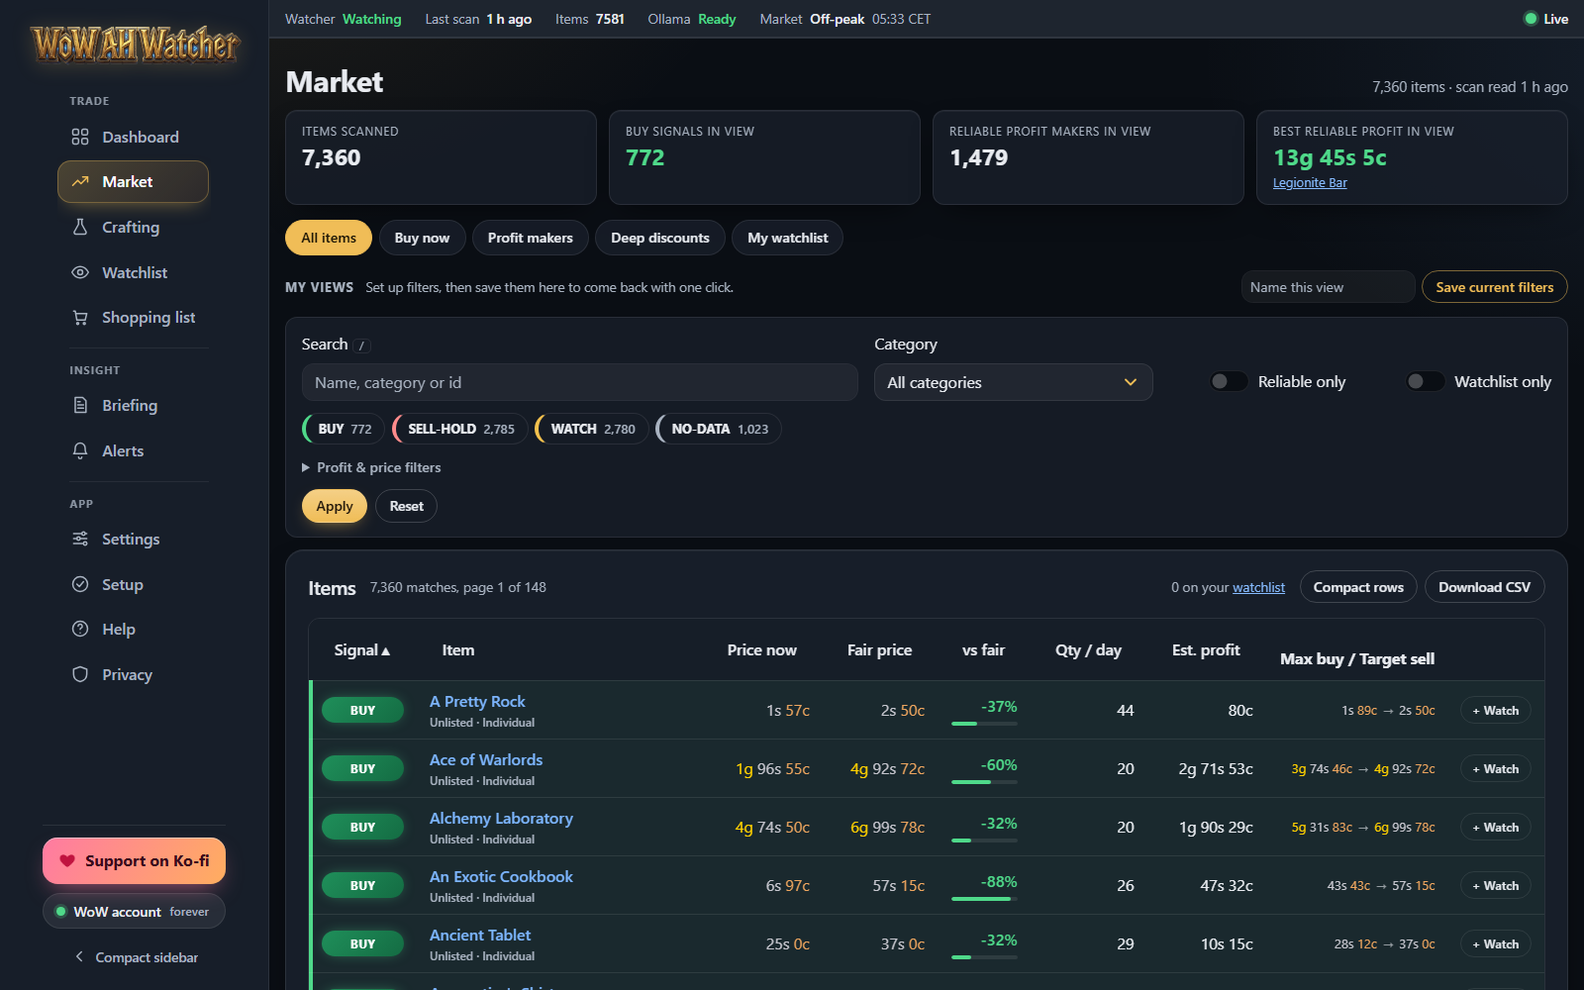
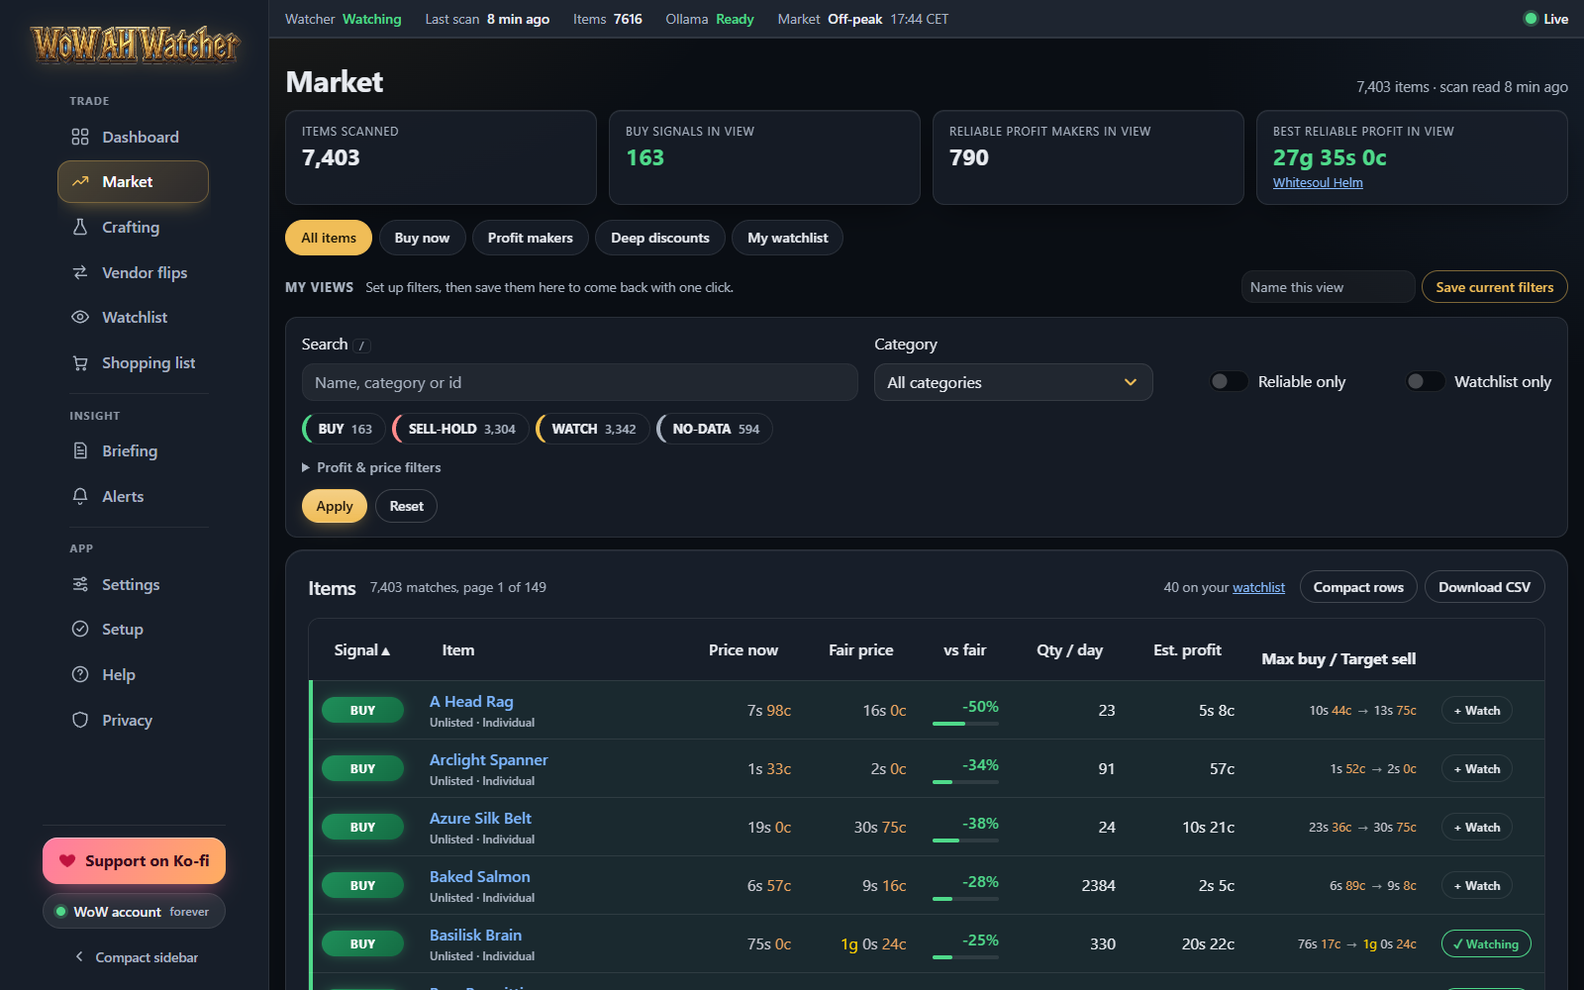
Update site and README for 1.1.0: Vendor flips, vendor-aware crafting, new screenshots

diff --git a/index.html b/index.html
@@ -42,10 +42,10 @@
       "@id": "https://wowahwatcher.com/#app",
       "name": "WoW AH Watcher",
       "alternateName": "WoWAHWatcher",
-      "description": "A free, local Windows app that reads your Auctionator scans and shows BUY, SELL-HOLD and WATCH signals, true crafting profit, a shopping list and deal alerts for the World of Warcraft Auction House.",
+      "description": "A free, local Windows app that reads your Auctionator scans and shows BUY, SELL-HOLD and WATCH signals, true crafting profit, vendor flips, a shopping list and deal alerts for the World of Warcraft Auction House.",
       "applicationCategory": "UtilitiesApplication",
       "operatingSystem": "Windows 10, Windows 11",
-      "softwareVersion": "1.0.2",
+      "softwareVersion": "1.1.0",
       "url": "https://wowahwatcher.com/",
       "downloadUrl": "https://github.com/nanidev/wowahwatcher/releases/latest",
       "image": "https://wowahwatcher.com/assets/site/og-image.jpg",
@@ -53,13 +53,15 @@
         "https://wowahwatcher.com/assets/screens/dashboard.png",
         "https://wowahwatcher.com/assets/screens/market.png",
         "https://wowahwatcher.com/assets/screens/crafting.png",
+        "https://wowahwatcher.com/assets/screens/vendorflips.png",
         "https://wowahwatcher.com/assets/screens/shopping.png"
       ],
       "offers": { "@type": "Offer", "price": "0", "priceCurrency": "USD", "description": "Free for personal, non-commercial use" },
       "author": { "@type": "Person", "name": "nanidev", "url": "https://github.com/nanidev" },
       "featureList": [
         "BUY, SELL-HOLD and WATCH signals from your own Auctionator history",
-        "Crafting profit after the 5% Auction House cut",
+        "Crafting profit after the 5% Auction House cut, using vendor prices only where stock is unlimited",
+        "Vendor flips: items worth more at a vendor than where they are sold, both directions",
         "Combined shopping list with buy-versus-craft comparison",
         "Live deal alerts with optional Discord webhook",
         "Optional local AI briefing through Ollama",
@@ -81,7 +83,8 @@
         { "@type": "Question", "name": "Does it send my data anywhere?", "acceptedAnswer": { "@type": "Answer", "text": "No. Everything is calculated locally on your PC. There are no accounts, no telemetry and no third-party scripts. The app only talks to your own local Ollama, to a Discord webhook if you add one, and to GitHub to ask for the newest release number (you can turn that off in Settings). Nothing about you or your data is sent." } },
         { "@type": "Question", "name": "Does it modify or automate World of Warcraft?", "acceptedAnswer": { "@type": "Answer", "text": "No. It never touches the game. It only reads the files that your addons already save to disk after you log out or type /reload, and it never buys, sells or clicks anything for you." } },
         { "@type": "Question", "name": "Do I need Ollama or an AI model?", "acceptedAnswer": { "@type": "Answer", "text": "No. Ollama is optional. Without it you still get a clear written briefing built from fixed rules. With Ollama installed, a local AI can rewrite the briefing as a flowing summary on your own machine." } },
-        { "@type": "Question", "name": "How is crafting profit calculated?", "acceptedAnswer": { "@type": "Answer", "text": "Each material is priced at the cheaper of its Auction House price and its vendor price, the 5% Auction House cut is taken off the sale price, and you see the net profit and margin. If a price is missing, the craft shows price unknown instead of inventing a total." } },
+        { "@type": "Question", "name": "How is crafting profit calculated?", "acceptedAnswer": { "@type": "Answer", "text": "Each material is priced at the cheaper of its Auction House price and its vendor price, but a vendor price only counts when the vendor has unlimited stock. Reputation discounts are already in the price Auctionator saved. The 5% Auction House cut is taken off the sale price, and you see the net profit and margin. Materials you can only get from a vendor are labelled, and crafts your characters cannot make are flagged. If a price is missing, the craft shows price unknown instead of inventing a total." } },
+        { "@type": "Question", "name": "What are vendor flips?", "acceptedAnswer": { "@type": "Answer", "text": "Vendor flips lists items that are worth more somewhere else than where they are sold: ones you can buy on the Auction House for less than a vendor pays, and ones a vendor sells for less than they fetch on the Auction House after the 5% cut. Every price comes from your own Auctionator scan or your own game. Auctionator does not save how many items are listed or whether a vendor has limited stock, so the page says when stock is not confirmed and leaves out old prices." } },
         { "@type": "Question", "name": "Which World of Warcraft versions work?", "acceptedAnswer": { "@type": "Answer", "text": "The app looks for the retail, classic and forever game folders. If your install is somewhere unusual, you can choose the WoW folder yourself in Settings." } },
         { "@type": "Question", "name": "Does it run on Mac or Linux?", "acceptedAnswer": { "@type": "Answer", "text": "Not at the moment. WoW AH Watcher is a Windows 10 and Windows 11 (64-bit) app." } },
         { "@type": "Question", "name": "Windows says \"Windows protected your PC\". Is that normal?", "acceptedAnswer": { "@type": "Answer", "text": "Yes. The first builds are not code-signed yet, so Windows SmartScreen may warn you. Click More info, then Run anyway. Every download ships with a .sha256 file so you can verify it is untouched." } },
@@ -120,7 +123,7 @@
     <div class="wrap">
       <div class="reveal in"><span class="pill"><b>FREE</b> Windows app for World of Warcraft</span></div>
       <h1 id="hero-title" class="reveal in" style="--d:.08s">Know what to buy, craft and sell. <span class="grad">Before the Auction House does.</span></h1>
-      <p class="lead reveal in" style="--d:.16s">WoW AH Watcher turns the prices Auctionator already records into plain-language decisions: real bargains, true crafting profit and a shopping list that does the maths. Quietly, on your own PC.</p>
+      <p class="lead reveal in" style="--d:.16s">WoW AH Watcher turns the prices Auctionator already records into plain-language decisions: real bargains, true crafting profit, vendor flips and a shopping list that does the maths. Quietly, on your own PC.</p>
       <div class="cta-row reveal in" style="--d:.24s">
         <a class="btn btn-gold btn-lg" href="https://github.com/nanidev/wowahwatcher/releases/latest">
           <svg viewBox="0 0 24 24" fill="none" stroke="currentColor" stroke-width="2.4" stroke-linecap="round" stroke-linejoin="round" aria-hidden="true"><path d="M12 4v11m0 0l-4.5-4.5M12 15l4.5-4.5M5 20h14"/></svg>
@@ -176,7 +179,7 @@
     <div class="wrap">
       <div class="center reveal">
         <span class="eyebrow">Product tour</span>
-        <h2 class="h2" id="show-title">Seven pages. One clear answer.</h2>
+        <h2 class="h2" id="show-title">Eight pages. One clear answer.</h2>
         <p class="lead">Real screenshots from the real app. Pick a page and take a look.</p>
       </div>
       <div class="show reveal" id="tour">
@@ -184,10 +187,11 @@
           <button class="tab" role="tab" id="t0" aria-controls="viewer" aria-selected="true"><strong>Dashboard</strong><p>Your best BUY signals, your most profitable craft and a written briefing, all on one calm page.</p></button>
           <button class="tab" role="tab" id="t1" aria-controls="viewer" aria-selected="false" tabindex="-1"><strong>Market</strong><p>Search and filter every scanned item, jump to presets like Buy now or Deep discounts, and save your own views.</p></button>
           <button class="tab" role="tab" id="t2" aria-controls="viewer" aria-selected="false" tabindex="-1"><strong>Crafting</strong><p>Every ingredient, the real cost and the profit after the Auction House cut, for the recipes your characters know.</p></button>
-          <button class="tab" role="tab" id="t3" aria-controls="viewer" aria-selected="false" tabindex="-1"><strong>Shopping list</strong><p>One combined list of everything to buy, and where crafting a part beats buying it.</p></button>
-          <button class="tab" role="tab" id="t4" aria-controls="viewer" aria-selected="false" tabindex="-1"><strong>Alerts</strong><p>Each new deal announced once, with the price to stay under. Optional Discord webhook for your phone.</p></button>
-          <button class="tab" role="tab" id="t5" aria-controls="viewer" aria-selected="false" tabindex="-1"><strong>Item page</strong><p>The price history chart, the fair price and the plain-language reason behind every signal.</p></button>
-          <button class="tab" role="tab" id="t6" aria-controls="viewer" aria-selected="false" tabindex="-1"><strong>Briefing</strong><p>A short readable summary of the latest scan, with your own notes to steer the optional local AI.</p></button>
+          <button class="tab" role="tab" id="t3" aria-controls="viewer" aria-selected="false" tabindex="-1"><strong>Vendor flips</strong><p>Items worth more at a vendor than where they are sold, both ways, with stock and price age flagged.</p></button>
+          <button class="tab" role="tab" id="t4" aria-controls="viewer" aria-selected="false" tabindex="-1"><strong>Shopping list</strong><p>One combined list of everything to buy, and where crafting a part beats buying it.</p></button>
+          <button class="tab" role="tab" id="t5" aria-controls="viewer" aria-selected="false" tabindex="-1"><strong>Alerts</strong><p>Each new deal announced once, with the price to stay under. Optional Discord webhook for your phone.</p></button>
+          <button class="tab" role="tab" id="t6" aria-controls="viewer" aria-selected="false" tabindex="-1"><strong>Item page</strong><p>The price history chart, the fair price and the plain-language reason behind every signal.</p></button>
+          <button class="tab" role="tab" id="t7" aria-controls="viewer" aria-selected="false" tabindex="-1"><strong>Briefing</strong><p>A short readable summary of the latest scan, with your own notes to steer the optional local AI.</p></button>
         </div>
         <div class="viewer" id="viewer" role="tabpanel" aria-live="polite">
           <div class="device">
@@ -196,6 +200,7 @@
               <img class="on" src="assets/site/dashboard-1600.webp" srcset="assets/site/dashboard-800.webp 800w, assets/site/dashboard-1600.webp 1600w" sizes="(max-width: 1000px) 100vw, 760px" width="1600" height="1000" alt="Dashboard page with BUY signals, best craft and briefing" loading="lazy">
               <img src="assets/site/market-1600.webp" srcset="assets/site/market-800.webp 800w, assets/site/market-1600.webp 1600w" sizes="(max-width: 1000px) 100vw, 760px" width="1600" height="1000" alt="Market page with presets, filters, saved views and signal chips" loading="lazy">
               <img src="assets/site/crafting-1600.webp" srcset="assets/site/crafting-800.webp 800w, assets/site/crafting-1600.webp 1600w" sizes="(max-width: 1000px) 100vw, 760px" width="1600" height="1000" alt="Crafting page showing ingredients, craft cost, net profit and margin" loading="lazy">
+              <img src="assets/site/vendorflips-1600.webp" srcset="assets/site/vendorflips-800.webp 800w, assets/site/vendorflips-1600.webp 1600w" sizes="(max-width: 1000px) 100vw, 760px" width="1600" height="1000" alt="Vendor flips page listing items to buy at the Auction House and sell to a vendor, and the reverse" loading="lazy">
               <img src="assets/site/shopping-1600.webp" srcset="assets/site/shopping-800.webp 800w, assets/site/shopping-1600.webp 1600w" sizes="(max-width: 1000px) 100vw, 760px" width="1600" height="1000" alt="Shopping list with a combined materials list and a buy-versus-craft tree" loading="lazy">
               <img src="assets/site/alerts-1600.webp" srcset="assets/site/alerts-800.webp 800w, assets/site/alerts-1600.webp 1600w" sizes="(max-width: 1000px) 100vw, 760px" width="1600" height="1000" alt="Alerts feed listing new BUY deals with prices" loading="lazy">
               <img src="assets/site/item-1600.webp" srcset="assets/site/item-800.webp 800w, assets/site/item-1600.webp 1600w" sizes="(max-width: 1000px) 100vw, 760px" width="1600" height="1000" alt="Item page with price history chart and the reason for its signal" loading="lazy">
@@ -231,7 +236,7 @@
         <article class="card span2 reveal" style="--d:.1s">
           <span class="tag">Crafting</span>
           <h3>The true profit of every craft</h3>
-          <p>Cheaper of Auction House or vendor price for each material, minus the 5% cut.</p>
+          <p>Cheaper of Auction House or vendor price for each material, minus the 5% cut. Vendor prices only count when the vendor never runs out.</p>
           <div class="demo receipt" aria-label="Illustrative crafting profit example">
             <div class="row"><span>Cloth &times; 12</span><span><span class="g">8g</span> <span class="s">40s</span></span></div>
             <div class="row"><span>Thread &times; 2</span><span><span class="g">1g</span> <span class="s">20s</span></span></div>
@@ -294,6 +299,7 @@
           </div>
           <ul class="mini">
             <li><svg viewBox="0 0 24 24" fill="none" stroke="currentColor" stroke-width="2.4" stroke-linecap="round" stroke-linejoin="round" aria-hidden="true"><path d="M5 12.5l4.5 4.5L19 7.5"/></svg><span><b>Watchlist</b> built from your own market history</span></li>
+            <li><svg viewBox="0 0 24 24" fill="none" stroke="currentColor" stroke-width="2.4" stroke-linecap="round" stroke-linejoin="round" aria-hidden="true"><path d="M5 12.5l4.5 4.5L19 7.5"/></svg><span><b>Vendor flips</b> both ways, with stock and age flagged</span></li>
             <li><svg viewBox="0 0 24 24" fill="none" stroke="currentColor" stroke-width="2.4" stroke-linecap="round" stroke-linejoin="round" aria-hidden="true"><path d="M5 12.5l4.5 4.5L19 7.5"/></svg><span><b>Saved views</b> for your favourite filters</span></li>
             <li><svg viewBox="0 0 24 24" fill="none" stroke="currentColor" stroke-width="2.4" stroke-linecap="round" stroke-linejoin="round" aria-hidden="true"><path d="M5 12.5l4.5 4.5L19 7.5"/></svg><span><b>CSV export</b> of the whole market table</span></li>
             <li><svg viewBox="0 0 24 24" fill="none" stroke="currentColor" stroke-width="2.4" stroke-linecap="round" stroke-linejoin="round" aria-hidden="true"><path d="M5 12.5l4.5 4.5L19 7.5"/></svg><span><b>Tray icon</b> to open, restart or quit</span></li>
@@ -303,7 +309,7 @@
         <article class="card span6 reveal">
           <span class="tag">Setup</span>
           <h3>Guided setup, built-in Help</h3>
-          <p style="max-width:52rem">The first run finds your WoW account, helps you install the two small helper addons and tells you exactly what is missing, in plain language. A full built-in guide explains every page, every signal and the in-game commands. No console window, no command line: it opens in your browser like a normal Windows app.</p>
+          <p style="max-width:52rem">The first run finds your WoW account, helps you install the two small helper addons (item names, vendor prices and recipes) and tells you exactly what is missing, in plain language. A full built-in guide explains every page, every signal and the in-game commands. No console window, no command line: it opens in your browser like a normal Windows app.</p>
         </article>
       </div>
     </div>
@@ -365,7 +371,8 @@
         <details class="reveal"><summary>Does it send my data anywhere?</summary><div class="ans">No. Everything is calculated locally on your PC. There are no accounts, no telemetry and no third-party scripts. The app only talks to your own local Ollama, to a Discord webhook if you add one, and to GitHub to ask for the newest release number (you can turn that off in Settings). Nothing about you or your data is sent.</div></details>
         <details class="reveal"><summary>Does it modify or automate World of Warcraft?</summary><div class="ans">No. It never touches the game. It only reads the files that your addons already save to disk after you log out or type <code>/reload</code>, and it never buys, sells or clicks anything for you.</div></details>
         <details class="reveal"><summary>Do I need Ollama or an AI model?</summary><div class="ans">No. Ollama is optional. Without it you still get a clear written briefing built from fixed rules. With Ollama installed, a local AI can rewrite the briefing as a flowing summary on your own machine.</div></details>
-        <details class="reveal"><summary>How is crafting profit calculated?</summary><div class="ans">Each material is priced at the cheaper of its Auction House price and its vendor price, the 5% Auction House cut is taken off the sale price, and you see the net profit and margin. If a price is missing, the craft shows &ldquo;price unknown&rdquo; instead of inventing a total.</div></details>
+        <details class="reveal"><summary>How is crafting profit calculated?</summary><div class="ans">Each material is priced at the cheaper of its Auction House price and its vendor price, but a vendor price only counts when the vendor has unlimited stock. Reputation discounts are already in the price Auctionator saved. The 5% Auction House cut is taken off the sale price, and you see the net profit and margin. Materials you can only get from a vendor are labelled, and crafts your characters cannot make are flagged. If a price is missing, the craft shows &ldquo;price unknown&rdquo; instead of inventing a total.</div></details>
+        <details class="reveal"><summary>What are vendor flips?</summary><div class="ans">Items that are worth more somewhere else than where they are sold: ones you can buy on the Auction House for less than a vendor pays, and ones a vendor sells for less than they fetch on the Auction House after the 5% cut. Every price comes from your own Auctionator scan or your own game. Auctionator does not save how many items are listed or whether a vendor has limited stock, so the page says when stock is not confirmed and leaves out old prices.</div></details>
         <details class="reveal"><summary>Which World of Warcraft versions work?</summary><div class="ans">The app looks for the retail, classic and forever game folders. If your install is somewhere unusual, you can choose the WoW folder yourself in Settings.</div></details>
         <details class="reveal"><summary>Does it run on Mac or Linux?</summary><div class="ans">Not at the moment. WoW AH Watcher is a Windows 10 and Windows 11 (64-bit) app.</div></details>
         <details class="reveal"><summary>Windows says &ldquo;Windows protected your PC&rdquo;. Is that normal?</summary><div class="ans">Yes. The first builds are not code-signed yet, so Windows SmartScreen may warn you. Click <b>More info</b>, then <b>Run anyway</b>. Every download ships with a <code>.sha256</code> file so you can verify it is untouched.</div></details>

diff --git a/README.md b/README.md
@@ -40,11 +40,19 @@ Every item from your latest scan gets a signal: **BUY**, **SELL-HOLD** or **WATC
 </div>
 
 ### Shows the true profit of every craft
-Crafting is costed from the recipes **your characters actually know**. Every material is priced at the cheaper of its Auction House price and its vendor price, the 5% Auction House cut is taken off, and you see the net profit and margin. If a price is missing, the craft says **"price unknown"**. It never invents a total. Search by name, or press **Show all**, to find any priced craft, not just the top few.
+Crafting is costed from the recipes **your characters actually know**. Every material is priced at the cheaper of its Auction House price and its vendor price, the 5% Auction House cut is taken off, and you see the net profit and margin. A vendor price only counts when the vendor has **unlimited stock**, so limited-stock items are never treated as always buyable. Reputation discounts are already in the price Auctionator saved. Vendor-bought materials carry a **Vendor** label, and crafts your characters cannot make are flagged. If a price is missing, the craft says **"price unknown"**. It never invents a total. Search by name, or press **Show all**, to find any priced craft, not just the top few.
 
 <div align="center">
 <img src="assets/screens/crafting.png" alt="The Crafting page showing ingredients, craft cost, net profit and margin" width="92%">
 <br><sub>Crafting: every ingredient, the real cost, and the profit after the Auction House cut.</sub>
+</div>
+
+### Spots flips between the Auction House and vendors
+The **Vendor flips** page lists items that are worth more somewhere else than where they are sold, in both directions: items you can **buy on the Auction House for less than a vendor pays**, and items a **vendor sells for less than they fetch on the Auction House** after the 5% cut. Every price comes from your own scan or your own game, never a guess. Auctionator does not save how many items are listed or whether a vendor has limited stock, so the page tells you when stock is not confirmed, leaves out old prices and shows how many it skipped. Check the listings before you buy.
+
+<div align="center">
+<img src="assets/screens/vendorflips.png" alt="The Vendor flips page with trades between the Auction House and vendors" width="92%">
+<br><sub>Vendor flips: both directions, with stock and price age flagged.</sub>
 </div>
 
 ### Plans your whole shopping trip
@@ -72,7 +80,7 @@ Each item page charts its price history and lists the notable days. Every figure
 </div>
 
 ### Writes you a briefing
-After each scan you get a short, readable briefing: what to buy now, why, and what to watch. It is built by fixed rules from your data, so it always works. If you run [Ollama](https://ollama.com) on your PC, a local AI can rewrite it as a flowing summary, and you can add your own notes ("more players reached this skill since launch, so supply is growing") that the AI weighs against the numbers. Every figure the AI quotes is checked against your data first; a summary that does not match is discarded, the verified briefing is shown, and the page says why. The AI runs **on your machine**, so your data stays yours.
+After each scan you get a short, readable briefing: what to buy now, why, and what to watch. It is built by fixed rules from your data, so it always works. If you run [Ollama](https://ollama.com) on your PC, a local AI can rewrite it as a flowing summary, and you can add your own notes ("more players reached this skill since launch, so supply is growing") that the AI weighs against the numbers. Every figure the AI quotes is checked against your data first; a summary that does not match is discarded, the verified briefing is shown, and the page says why. You can also read the rejected text, and a small rounding such as "20g" for a price is noted instead of throwing the whole summary away. The AI runs **on your machine**, so your data stays yours.
 
 <div align="center">
 <img src="assets/screens/briefing.png" alt="The Briefing page with your notes for the AI and the latest briefing" width="92%">
@@ -89,10 +97,11 @@ After each scan you get a short, readable briefing: what to buy now, why, and wh
 | **Saved Market views** | Save a set of filters under a name and reopen it with one click. |
 | **CSV download** | Take the whole market table into a spreadsheet. |
 | **Honest freshness labels** | Fresh, aging, stale and very old data are labelled, and stale prices never pose as a deal. |
-| **Guided setup** | Finds your WoW account, helps you install the two small helper addons, and tells you exactly what is missing. |
+| **Guided setup** | Finds your WoW account, helps you install the two small helper addons (item names, vendor prices and recipes), and tells you exactly what is missing. |
 | **Gold, silver and copper** | Every price uses the in-game coin colours, everywhere in the app. |
 | **Runs like a normal Windows app** | No console window. It opens in your browser, and a tray icon lets you open, restart or quit it, and start it with Windows. |
-| **Built-in Help** | A full guide to every page, the signals and the in-game commands. |
+| **Item names for every item** | The Names helper addon records real item names and what vendors pay, so prices are not shown as bare numbers. |
+| **Built-in Help** | A full guide to every page, the signals, the glossary and the in-game commands. |
 
 ---
 
